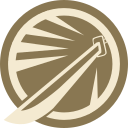
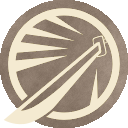
Assets geändert/ergänzt, Lebensleiste und Attribute haben die Plätze getauscht, Hover-Effekt für MR ergänzt

diff --git a/css/temp.css b/css/temp.css
@@ -46,19 +46,23 @@
 
 .heroattributes {
   display: flex;
-  flex-wrap: wrap;
+  flex-wrap: nowrap;
   justify-content: space-around;
   /* gleichmäßige Verteilung */
   align-items: center;
-  gap: 10px;
-  /* Abstand zwischen den Elementen */
+  padding-top: 5px;
 }
 
+.attribute-grid {
+  display: grid;
+  grid-template-columns: repeat(4, 1fr); /* 4 Spalten */
+  gap: 0.05rem;
+}
 
 .attribute-wrapper {
   position: relative;
-  width: 45px;
-  height: 45px;
+  width: 55px;
+  height: 55px;
 }
 
 .attribute-wrapper img {
@@ -178,9 +182,8 @@
 .icon-overlay-container {
   position: relative;
   display: inline-block;
-  width: 50px;
-  height: 50px;
-  margin: 5px;
+  width: 55px;
+  height: 55px;
 }
 
 .icon-overlay-container img {
@@ -199,7 +202,7 @@
   /* oder schwarz, je nach Kontrast */
   font-weight: bold;
   font-size: 20px;
-  text-shadow: 0 0 3px black;
+  text-shadow: 0 0 2px black;
   /* besser lesbar auf hellem Hintergrund */
   pointer-events: none;
 }
@@ -252,8 +255,8 @@
 }
 
 .triStateBtn {
-  width: 18px;
-  height: 15px;
+  width: 30px;
+  height: 30px;
   border: 2px solid brown;
   border-radius: 0;
   cursor: pointer;
@@ -272,10 +275,10 @@
 .state-1::after {
   content: "";
   position: absolute;
-  top: 40%;
-  left: -15%;
-  width: 18px;
-  height: 2px;
+  top: 45%;
+  left: -7%;
+  width: 30px;
+  height: 4px;
   background-color: black;
 }
 
@@ -291,10 +294,10 @@
 .state-2::after {
   content: "";
   position: absolute;
-  top: 40%;
-  left: -15%;
-  width: 18px;
-  height: 2px;
+  top: 45%;
+  left: -7%;
+  width: 30px;
+  height: 4px;
   background-color: black;
   transform: rotate(135deg);
 }
